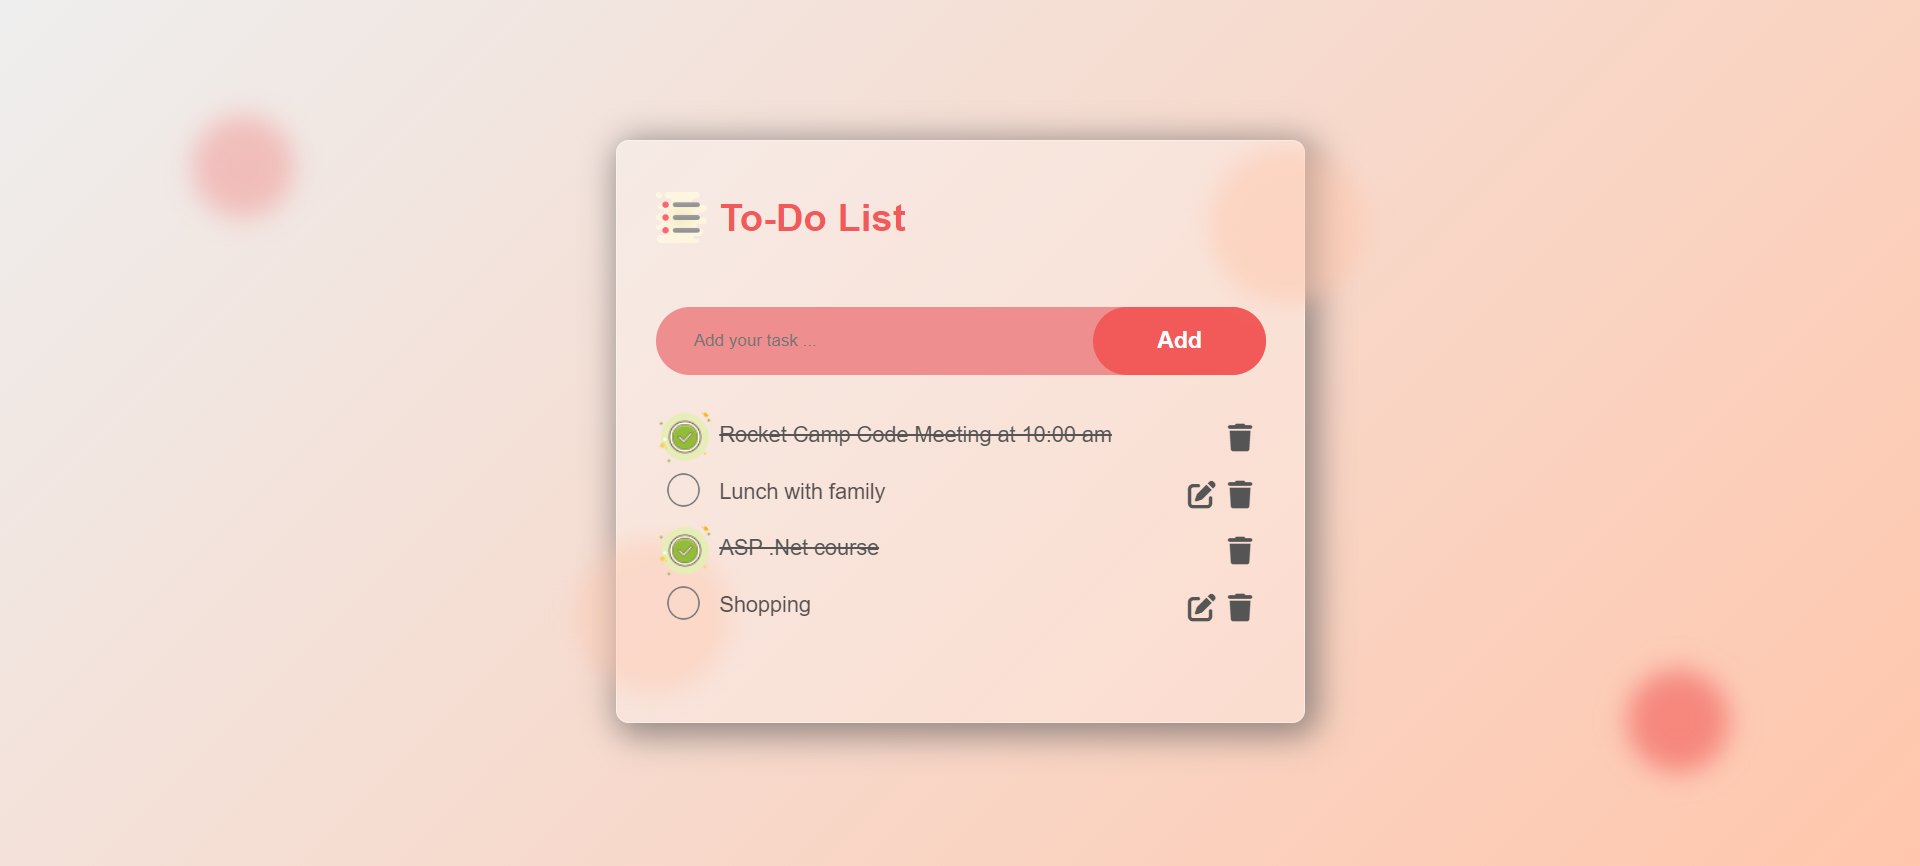
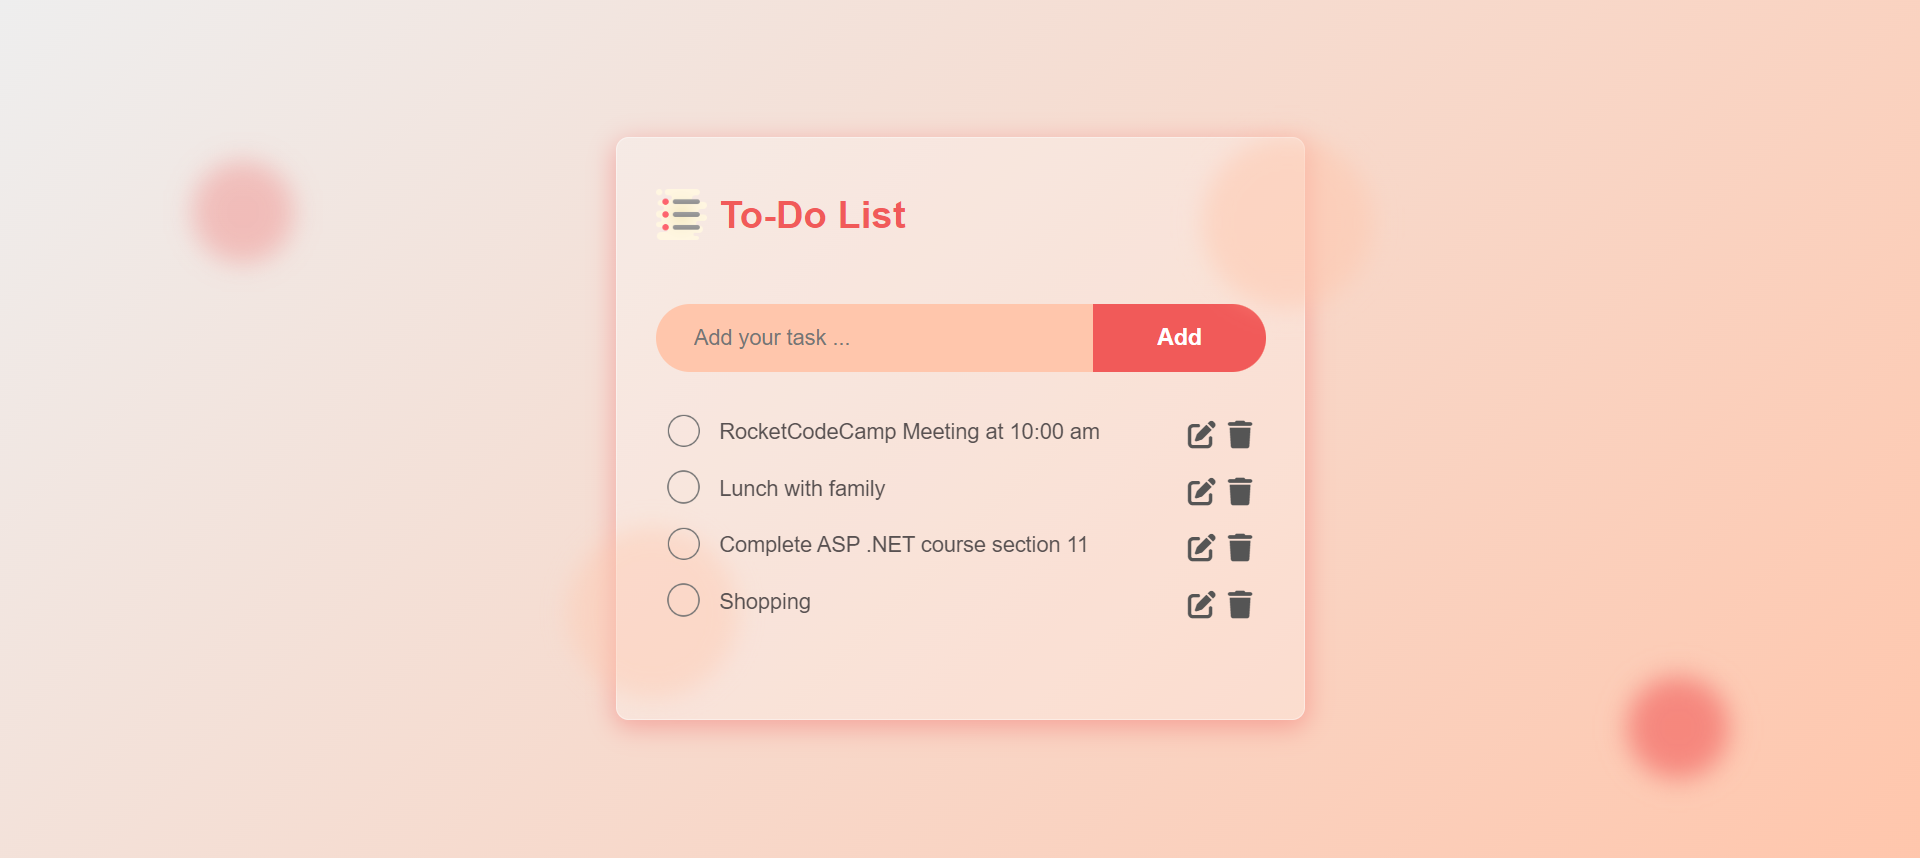
commit

diff --git a/RocketWeb/Tasks/Task4/style.css b/RocketWeb/Tasks/Task4/style.css
@@ -115,7 +115,10 @@
     border-radius: 10px;
     box-shadow: 5px 5px 25px 5px rgba(110, 104, 104, 0.7);
 }
-
+.todo-app:hover{
+    top: 0;
+    box-shadow: 0 5px 20px  1px #f1595967;
+}
 .todo-app h2 {
     color: #F15A59;
     display: flex;
@@ -133,7 +136,7 @@
     display: flex;
     justify-content: space-between;
     align-items: center;
-    background: #ee8e8e;
+    background: #FFC6AC;;
     border-radius: 40px;
     padding-left: 20px;
     margin-bottom: 25px;
@@ -143,9 +146,10 @@ input {
     flex: 1;
     border: none;
     outline: none;
-    color: #585151;
+    color: #F15A59;
     background: transparent;
     padding: 10px;
+    font-size: 17px;
 }
 
 button {
@@ -157,7 +161,7 @@ button {
     font-size: 18px;
     font-weight: 600;
     cursor: pointer;
-    border-radius: 40px;
+    border-radius: 0 40px 40px 0;
 }
 
 button:hover{

diff --git a/RocketWeb/Tasks/Task4/README.md b/RocketWeb/Tasks/Task4/README.md
@@ -17,9 +17,10 @@ Mark task as completed / uncompleted
 ```
 
 ## Result
+![alt text](images/result.png)
+![alt text](images/result2.png)
 
 
-![alt text](result.png)
 
 
 
